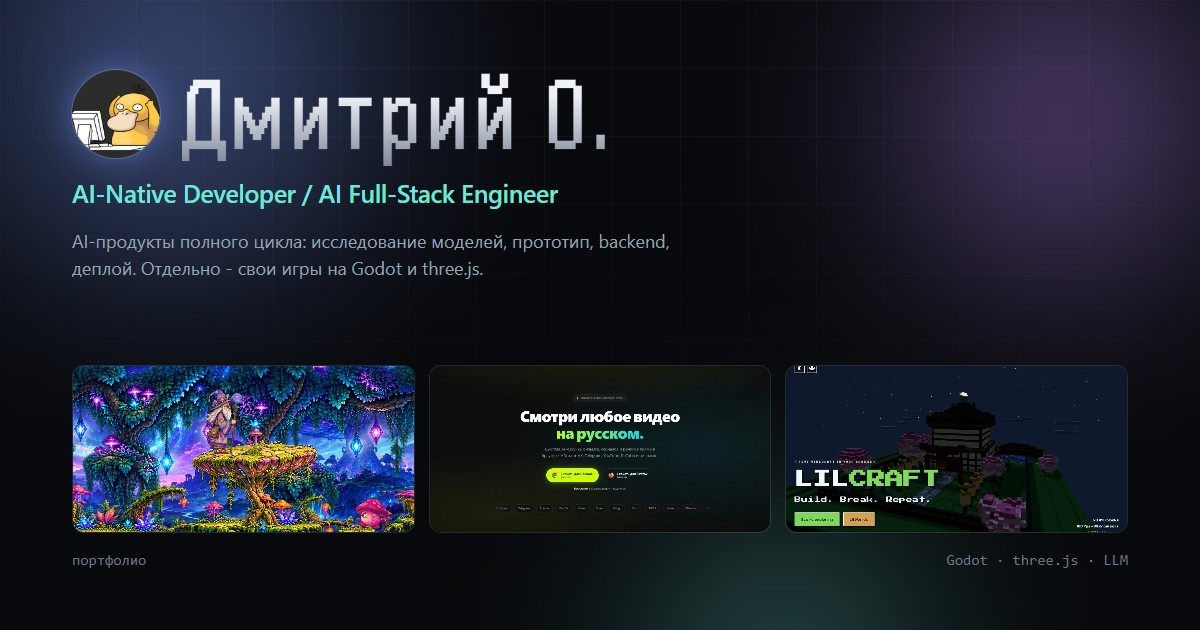
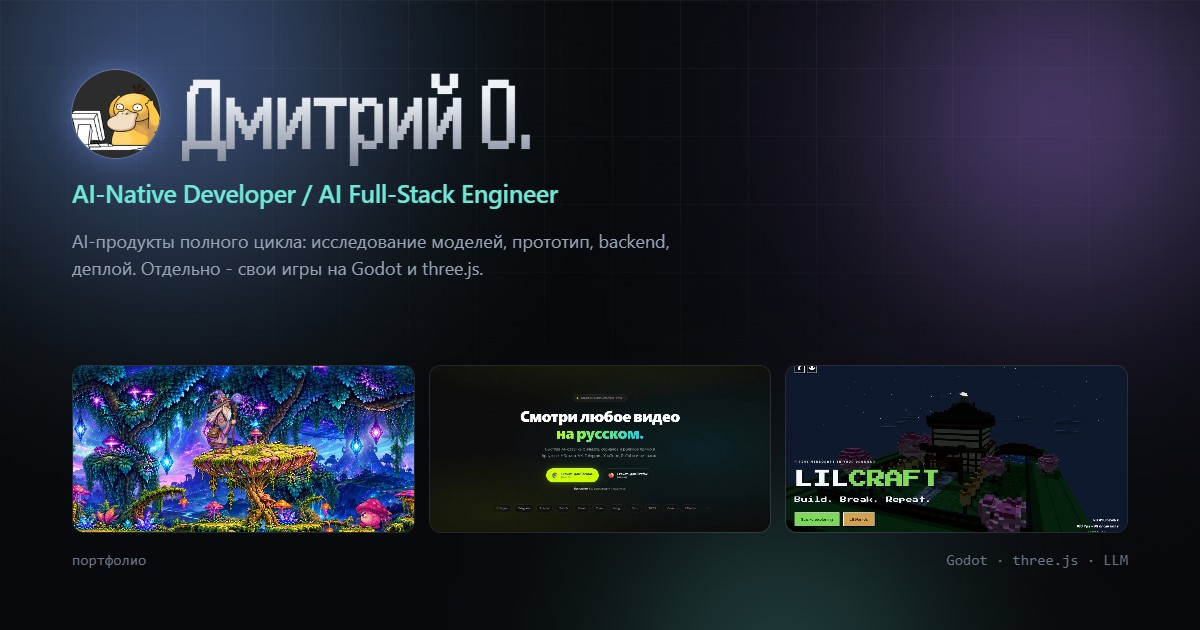
Новый слой UI: ai-lab-ui-refresh.css
Подключён третьим стилем после handjet.css и style.css: тёмный фон с двумя
радиальными свечениями, сетка 40x40 через body::before с маской, карточки
получили рамку, градиент, тень и подъём на hover, изображения - зум и
подтяжку насыщенности.

Путь в tools/og.html поправлен на ../ai-lab-ui-refresh.css: файл лежит в корне,
а og.html - в tools/, поэтому относительная ссылка без .. уходила в 404 и
og:image собирался без нового слоя. og-v2.jpg перегенерирован.

Светлая тема не задета - её градиент на body остаётся, новый слой только
добавляет свечения поверх тёмного --ui-bg.

diff --git a/ai-lab-ui-refresh.css b/ai-lab-ui-refresh.css
@@ -1,0 +1,54 @@
+
+/* === AI LAB UI REFRESH === */
+:root {
+  --ui-accent: #65f7d0;
+  --ui-accent-2: #8b7cff;
+  --ui-bg: #08090c;
+  --ui-panel: rgba(255,255,255,.045);
+  --ui-line: rgba(255,255,255,.09);
+}
+body {
+  background:
+    radial-gradient(circle at 15% 10%, rgba(101,247,208,.07), transparent 28rem),
+    radial-gradient(circle at 85% 18%, rgba(139,124,255,.07), transparent 30rem),
+    var(--ui-bg);
+}
+body::before {
+  content:"";
+  position:fixed; inset:0; pointer-events:none; z-index:-1;
+  opacity:.28;
+  background-image:
+    linear-gradient(rgba(255,255,255,.035) 1px, transparent 1px),
+    linear-gradient(90deg, rgba(255,255,255,.035) 1px, transparent 1px);
+  background-size:40px 40px;
+  mask-image:linear-gradient(to bottom, black, transparent 85%);
+}
+:is(.project-card,.card,.project,.portfolio-card) {
+  border:1px solid var(--ui-line);
+  background:linear-gradient(145deg, rgba(255,255,255,.065), rgba(255,255,255,.018));
+  box-shadow:0 18px 60px rgba(0,0,0,.22);
+  transition:transform .45s cubic-bezier(.2,.8,.2,1), border-color .35s, box-shadow .45s;
+  overflow:hidden;
+}
+:is(.project-card,.card,.project,.portfolio-card):hover {
+  transform:translateY(-8px);
+  border-color:rgba(101,247,208,.35);
+  box-shadow:0 24px 80px rgba(0,0,0,.35), 0 0 50px rgba(101,247,208,.07);
+}
+:is(.project-card,.card,.project,.portfolio-card) img {
+  transition:transform .7s cubic-bezier(.2,.8,.2,1), filter .5s;
+}
+:is(.project-card,.card,.project,.portfolio-card):hover img {
+  transform:scale(1.035);
+  filter:saturate(1.08) contrast(1.03);
+}
+:is(h1,h2,h3) {
+  letter-spacing:-.035em;
+}
+a, button {
+  transition:transform .25s ease, opacity .25s ease, border-color .25s ease, background .25s ease;
+}
+button:hover, a:hover { transform:translateY(-1px); }
+@media (prefers-reduced-motion: reduce) {
+  *, *::before, *::after { animation:none !important; transition:none !important; }
+}

diff --git a/tools/og.html b/tools/og.html
@@ -50,6 +50,7 @@
     font: 500 15px/1 ui-monospace, Consolas, monospace; color: #6b7686;
   }
 </style>
+<link rel="stylesheet" href="../ai-lab-ui-refresh.css">
 </head>
 <body>
   <div class="glow g1"></div><div class="glow g2"></div><div class="glow g3"></div>

diff --git a/index.html b/index.html
@@ -28,6 +28,7 @@
     if (t) document.documentElement.setAttribute('data-theme', t);
   } catch (e) {}
 </script>
+<link rel="stylesheet" href="ai-lab-ui-refresh.css">
 </head>
 <body>
 
